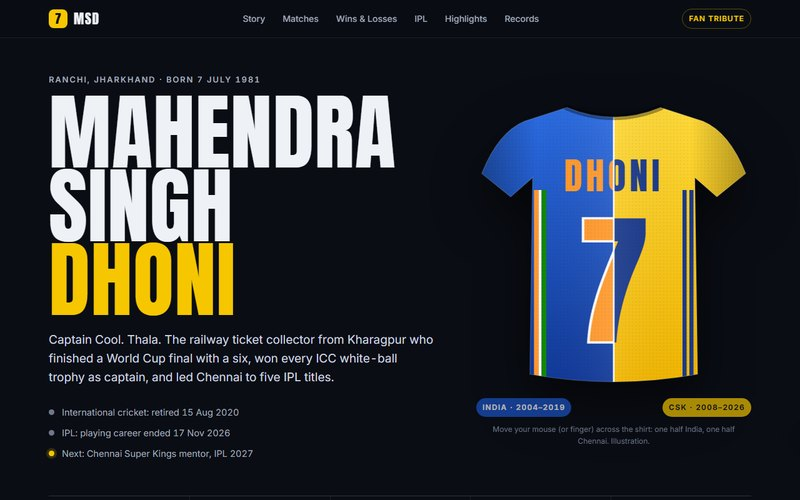
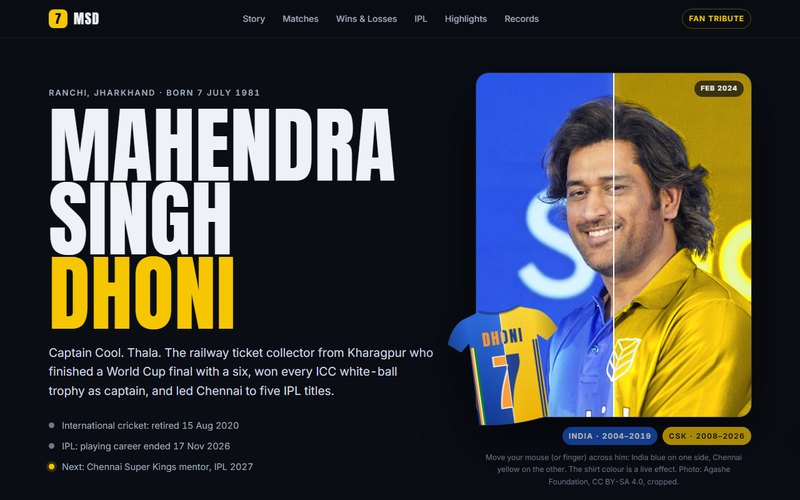
Update the Dhoni reel screenshot and text for the new hero

diff --git a/index.html b/index.html
@@ -149,14 +149,14 @@
 
           <article class="reel" style="--hue: 46">
             <a class="reel-screen" href="https://ms-dhoni-tribute.vercel.app" target="_blank" rel="noopener" data-cursor="Play">
-              <img src="assets/shots/dhoni.jpg" alt="Screenshot of the MS Dhoni fan tribute site: his name in large type beside a number 7 shirt, half India blue and half CSK yellow" loading="lazy" />
+              <img src="assets/shots/dhoni.jpg" alt="Screenshot of the MS Dhoni fan tribute site: his name in large type beside a 2024 photo of him, his shirt half India blue and half CSK yellow" loading="lazy" />
               <span class="reel-play">▶</span>
             </a>
             <div class="reel-info">
               <span class="reel-no">01</span>
               <p class="reel-genre mono">Sports Data · Interactive Charts · Video</p>
               <h3>MS Dhoni — Captain Cool Tribute</h3>
-              <p>A fan site on Dhoni's career, current to his IPL retirement in November 2026: a half-India, half-CSK shirt whose split follows the mouse, win and loss bars for every format he captained, a tap-through chart of 19 IPL seasons, eight official ICC and Cricbuzz clips that load only when tapped, and his autograph writing itself across an SVG camera lens.</p>
+              <p>A fan site on Dhoni's career, current to his IPL retirement in November 2026: a 2024 photo whose shirt turns from India blue to CSK yellow wherever the mouse is, win and loss bars for every format he captained, a tap-through chart of 19 IPL seasons, eight official ICC and Cricbuzz clips that load only when tapped, and his autograph writing itself across an SVG camera lens.</p>
               <ul class="tags"><li>HTML</li><li>CSS</li><li>Vanilla JS</li><li>SVG</li><li>Vercel</li></ul>
               <div class="reel-links">
                 <a href="https://ms-dhoni-tribute.vercel.app" target="_blank" rel="noopener" data-cursor="Live">Live ↗</a>
